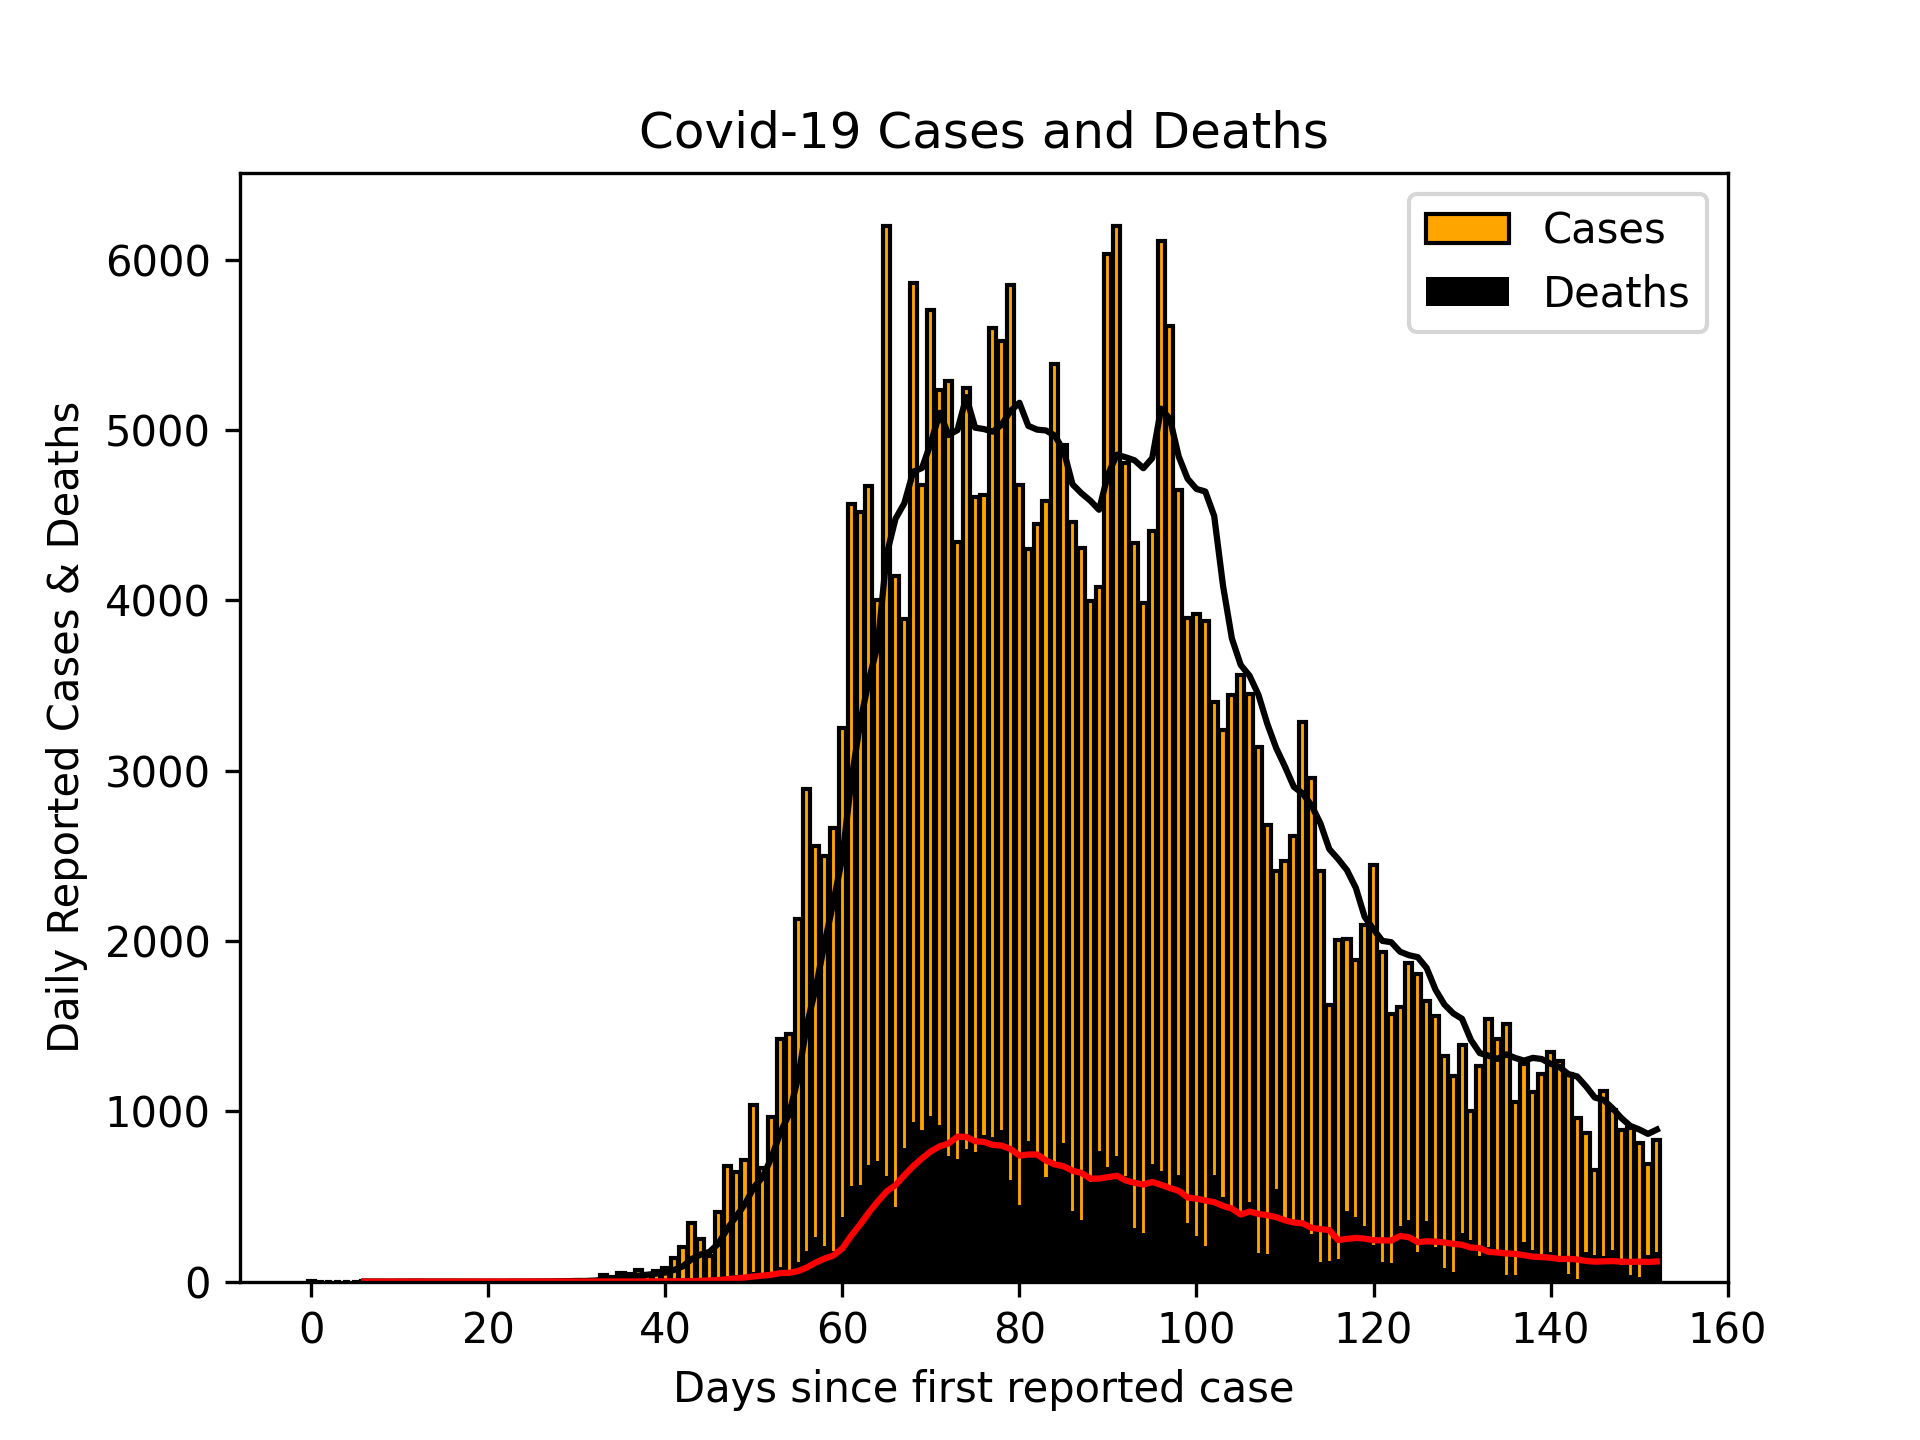
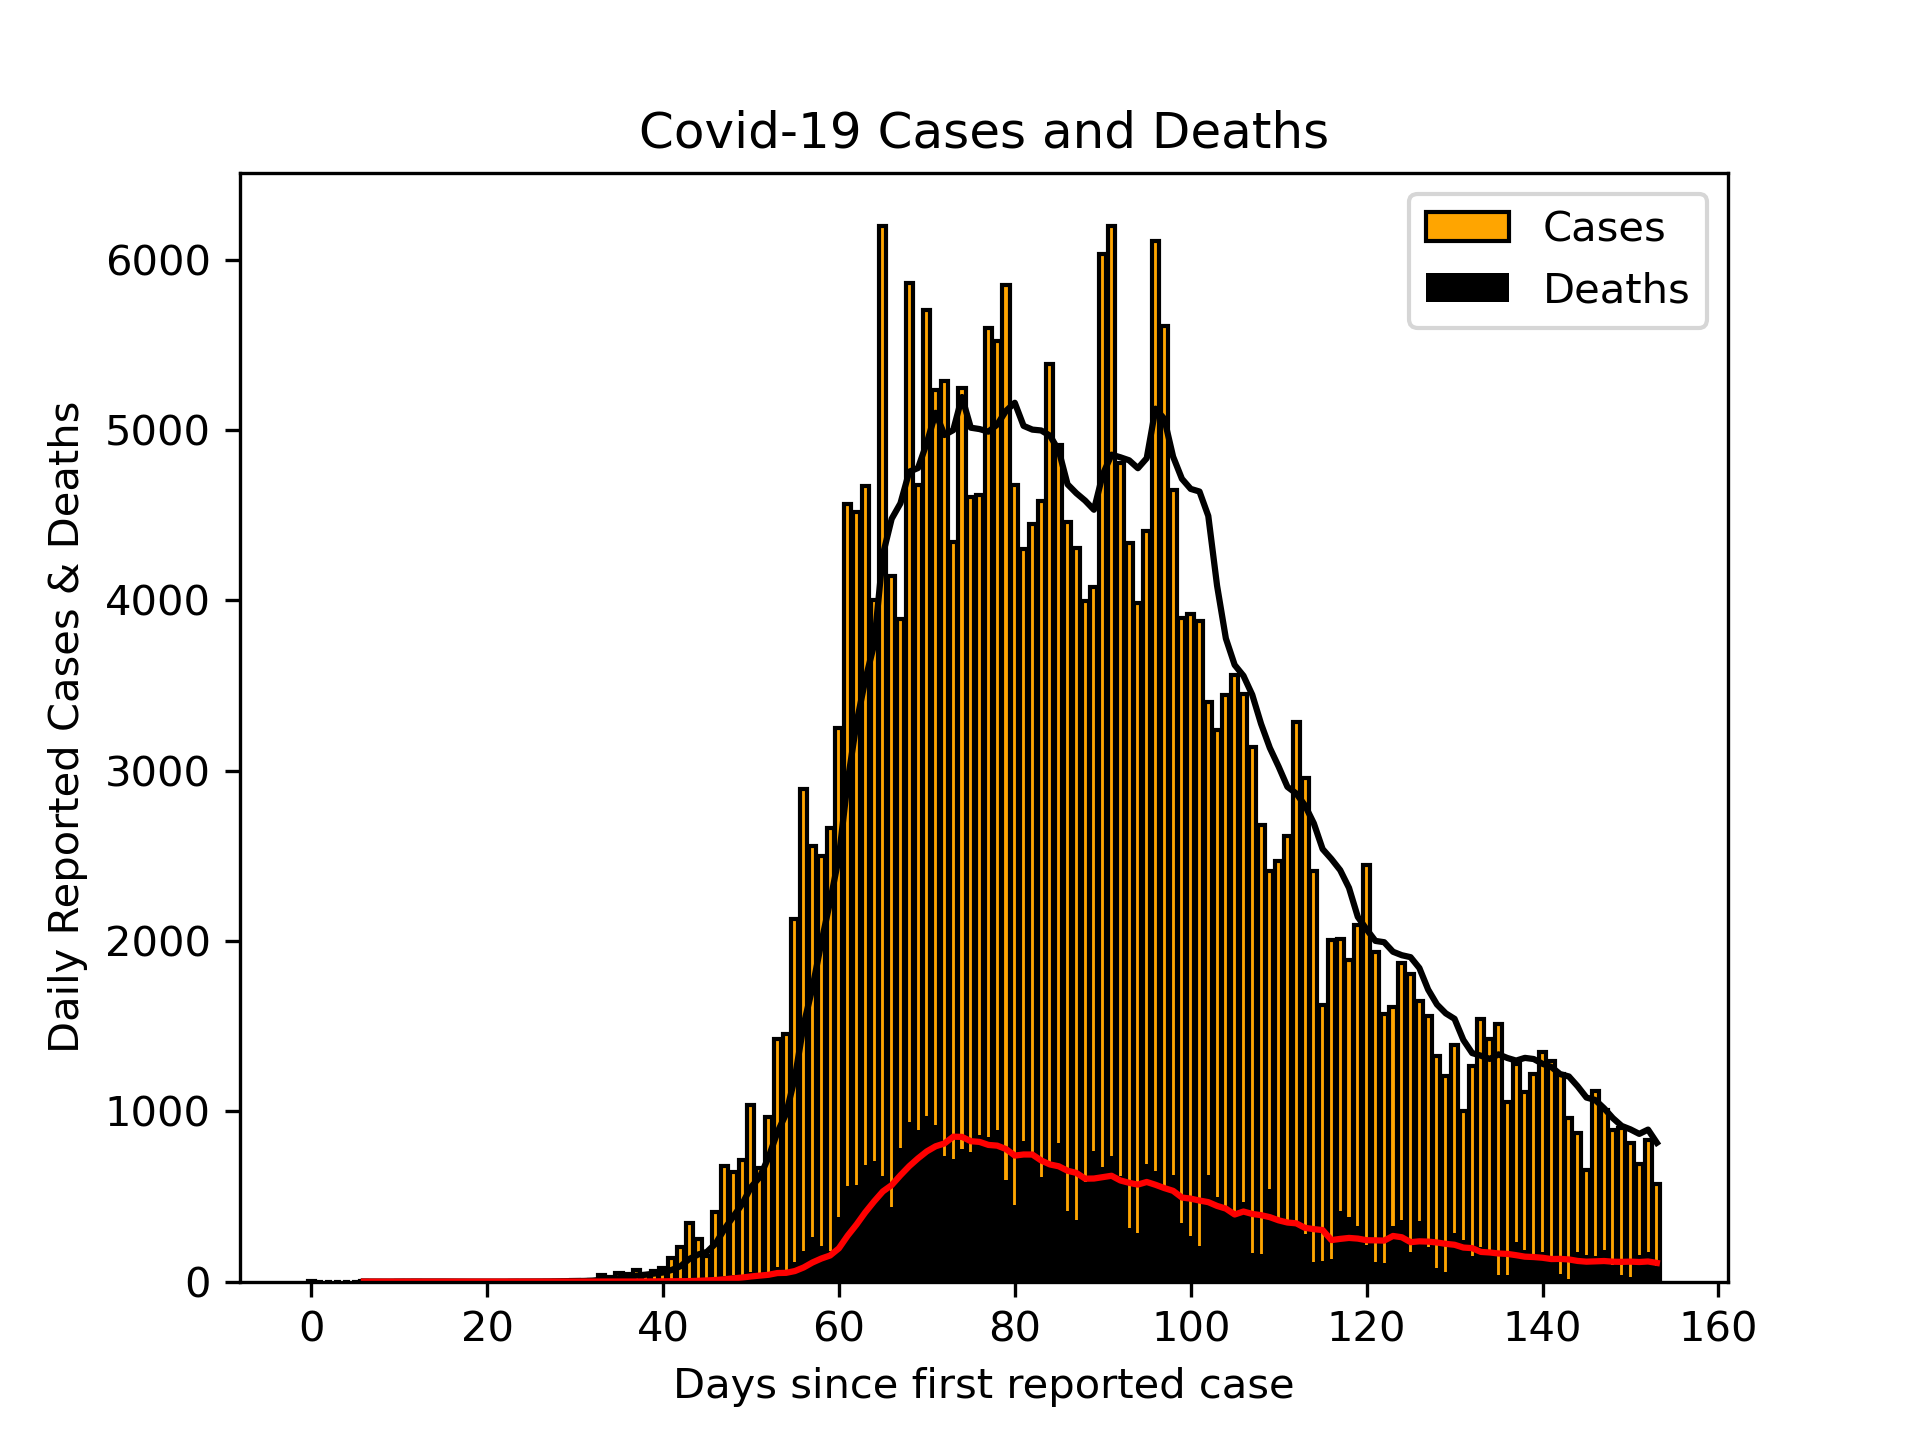
Updated UK cases 02/07/20

diff --git a/README.md b/README.md
@@ -1,5 +1,5 @@
 # Scottish Cases 02/07/20
 ![alt](scottish_cases.png)
 
-# UK Cases 01/07/20
+# UK Cases 02/07/20
 ![alt](uk_cases.png)
